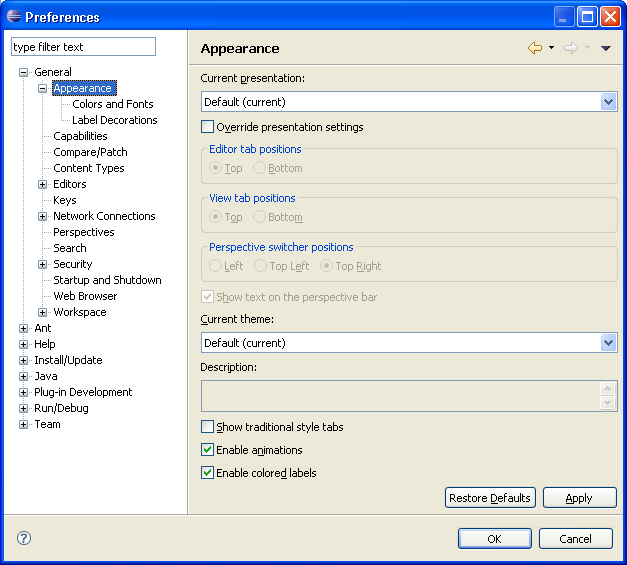
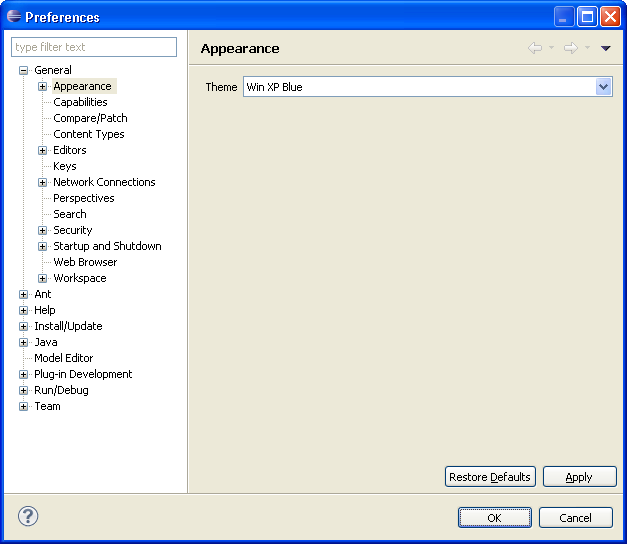
Bug 349826 [Compatibility] Update the user doc entries for the 'Appearance' preference page

diff --git a/bundles/org.eclipse.platform.doc.user/reference/ref-16.htm b/bundles/org.eclipse.platform.doc.user/reference/ref-16.htm
@@ -12,7 +12,7 @@
 
 <h1 class="Head">Appearance preference page</h1>
 
-<p class="Para">You can change the following preferences on the
+<p class="Para">You can change the following preference on the
 <a class="command-link" href='javascript:executeCommand("org.eclipse.ui.window.preferences(preferencePageId=org.eclipse.ui.preferencePages.Views)")'><img src="PLUGINS_ROOT/org.eclipse.help/command_link.png" alt="command link"><strong>General &gt; Appearance</strong></a> preferences page.
 </p>
 
@@ -23,54 +23,9 @@
 <th>Default</th>
 </tr>
 <tr valign="top">
-<td><b>Current presentation</b></td>
-<td>Specify the currently active presentation (look and feel).</td>
-<td>Default (current)</td>
-</tr>
-<tr valign="top">
-<td><b>Override presentation settings</b></td>
-<td>Locally override the settings from the current presentation's defaults.</td>
-<td>Disabled</td>
-</tr>
-<tr valign="top">
-<td><b>Editor tab positions</b></td>
-<td>Specify either top or bottom to indicate where you want tabs for stacked 
-editors to appear.</td>
-<td>Top</td>
-</tr>
-<tr valign="top">
-<td><b>View tab positions</b></td>
-<td>Specify either top or bottom to indicate where you want tabs for stacked 
-views to appear.</td>
-<td>Top</td>
-</tr>
-<tr valign="top">
-<td><b>Perspective switcher positions</b></td>
-<td>Specify the location of the perspective switcher bar.</td>
-<td>Top right</td>
-</tr>
-<tr valign="top">
-<td><b>Current theme</b></td>
-<td>Specify the currently active theme (color and font set).</td>
-<td>Default (current)</td>
-</tr>
-<tr valign="top">
-<td><b>Show text on perspective bar</b></td>
-<td>Specify whether labels should be shown in the perspective bar as well 
-as icons.</td>
-<td>Enabled</td>
-</tr>
-<tr valign="top">
-<td><b>Show traditional style tabs</b></td>
-<td>Specify whether traditional (square) tabs should be used in place of the 
-curved tabs.</td>
-<td>Disabled</td>
-</tr>
-<tr valign="top">
-<td><b>Enable animations</b></td>
-<td>Enable/disable the feature where views animate to their location when 
-closed or opened.</td>
-<td>Enabled</td>
+<td><b>Theme</b></td>
+<td>Specify the currently active theme (look and feel).</td>
+<td>Dependent on the operating system</td>
 </tr>
 </table>
 

diff --git a/bundles/org.eclipse.platform.doc.user/tips/platform_tips.html b/bundles/org.eclipse.platform.doc.user/tips/platform_tips.html
@@ -237,30 +237,6 @@ productivity. They are divided into the following sections:</p>
       can also create a fast view by dragging a view onto the Fast View Bar 
       in the bottom left hand corner.</td>
   </tr>
-  <tr> 
-    <td width="20%" valign="top" align="left"><b>Fast views and the perspective 
-      bar</b>
-     </td>
-    <td width="80%" valign="top" align="left">The fast view and perspective bars 
-      may be docked in different locations, independent of one 
-      another. 
-      <p>By default the Perspective Bar is located in the upper right hand corner 
-        of the screen. It may also be docked on the top left, under the main toolbar 
-        or to the far left. It may be moved via the perspective bar context menu 
-        or via the
-        
-        <a class="command-link" href='javascript:executeCommand("org.eclipse.ui.window.preferences(preferencePageId=org.eclipse.ui.preferencePages.Views)")'>
-        <img src="PLUGINS_ROOT/org.eclipse.help/command_link.png" alt="command link">
-        <strong>General &gt; Appearance</strong></a>
- 
-        preference page. </p>
-      <p><img src="images/pb-context-menu.png" alt="Perspective Bar Context Menu"  border="0"></p>
-      <p>By default the Fast View Bar is located in the bottom left hand corner 
-        of the screen. Like the Perspective Bar, it may be docked elsewhere. This 
-        may be done by dragging the area to either the left or right side of the 
-        screen (or back to the bottom if it is already in one of these positions).</p> 
-      <p><img src="images/fastview-drag.png" alt="Fast View Area"  border="0"></p></td>
-  </tr>
      <tr> 
     <td width="20%" valign="top" align="left"><b>Detached views</b>
     </td>

diff --git a/bundles/org.eclipse.platform.doc.user/tasks/tasks-46.htm b/bundles/org.eclipse.platform.doc.user/tasks/tasks-46.htm
@@ -2,7 +2,7 @@
 <html lang="en">
 <HEAD>
 
-<meta name="copyright" content="Copyright (c) IBM Corporation and others 2000, 2005. This page is made available under license. For full details see the LEGAL in the documentation book that contains this page." >
+<meta name="copyright" content="Copyright (c) IBM Corporation and others 2000, 2011. This page is made available under license. For full details see the LEGAL in the documentation book that contains this page." >
 
 <META HTTP-EQUIV="Content-Type" CONTENT="text/html; charset=ISO-8859-1">
 <META HTTP-EQUIV="Content-Style-Type" CONTENT="text/css">
@@ -40,7 +40,6 @@ editor for that type of file. To open it in a different editor, select
 <a href="tasks-52.htm">Editing files outside the Workbench</a><br>
   <a href="tasks-18.htm">Linking the Project Explorer view to the active editor</a><br>
 <a href="tasks-3g.htm">Tiling editors</a><br>
-<a href="tasks-9.htm">Changing the placement of editor tabs</a><br>
 <a href="tasks-68.htm">Comparing resources</a>
 </p>
 

diff --git a/bundles/org.eclipse.platform.doc.user/tasks/tasks-3g.htm b/bundles/org.eclipse.platform.doc.user/tasks/tasks-3g.htm
@@ -2,7 +2,7 @@
 <html lang="en">
 <HEAD>
 
-<meta name="copyright" content="Copyright (c) IBM Corporation and others 2000, 2005. This page is made available under license. For full details see the LEGAL in the documentation book that contains this page." >
+<meta name="copyright" content="Copyright (c) IBM Corporation and others 2000, 2011. This page is made available under license. For full details see the LEGAL in the documentation book that contains this page." >
 
 <META HTTP-EQUIV="Content-Type" CONTENT="text/html; charset=ISO-8859-1">
 <META HTTP-EQUIV="Content-Style-Type" CONTENT="text/css">
@@ -40,7 +40,6 @@ editor area.
 
 <p><img border="0" src="../images/ngrelt.png" alt="Related tasks" ><br>
 <a href="tasks-46.htm">Opening files for editing</a><br>
-<a href="tasks-9.htm">Changing the placement of the tabs</a><br>
 <a href="tasks-68.htm">Comparing resources</a>
 </p>
 

diff --git a/bundles/org.eclipse.platform.doc.user/tasks/tasks-1.htm b/bundles/org.eclipse.platform.doc.user/tasks/tasks-1.htm
@@ -37,7 +37,6 @@
 <a href="tkeybindings.htm">Changing the key bindings</a><br>
 <a href="topenmode.htm">Controlling single and double click behavior</a><br>
 <a href="tasks-20.htm">Changing fonts and colors</a><br>
-<a href="tasks-9.htm">Changing the placement of the tabs</a><br>
 <a href="timpandexp.htm">Importing and Exporting Preferences</a><br>
 </p>
 
